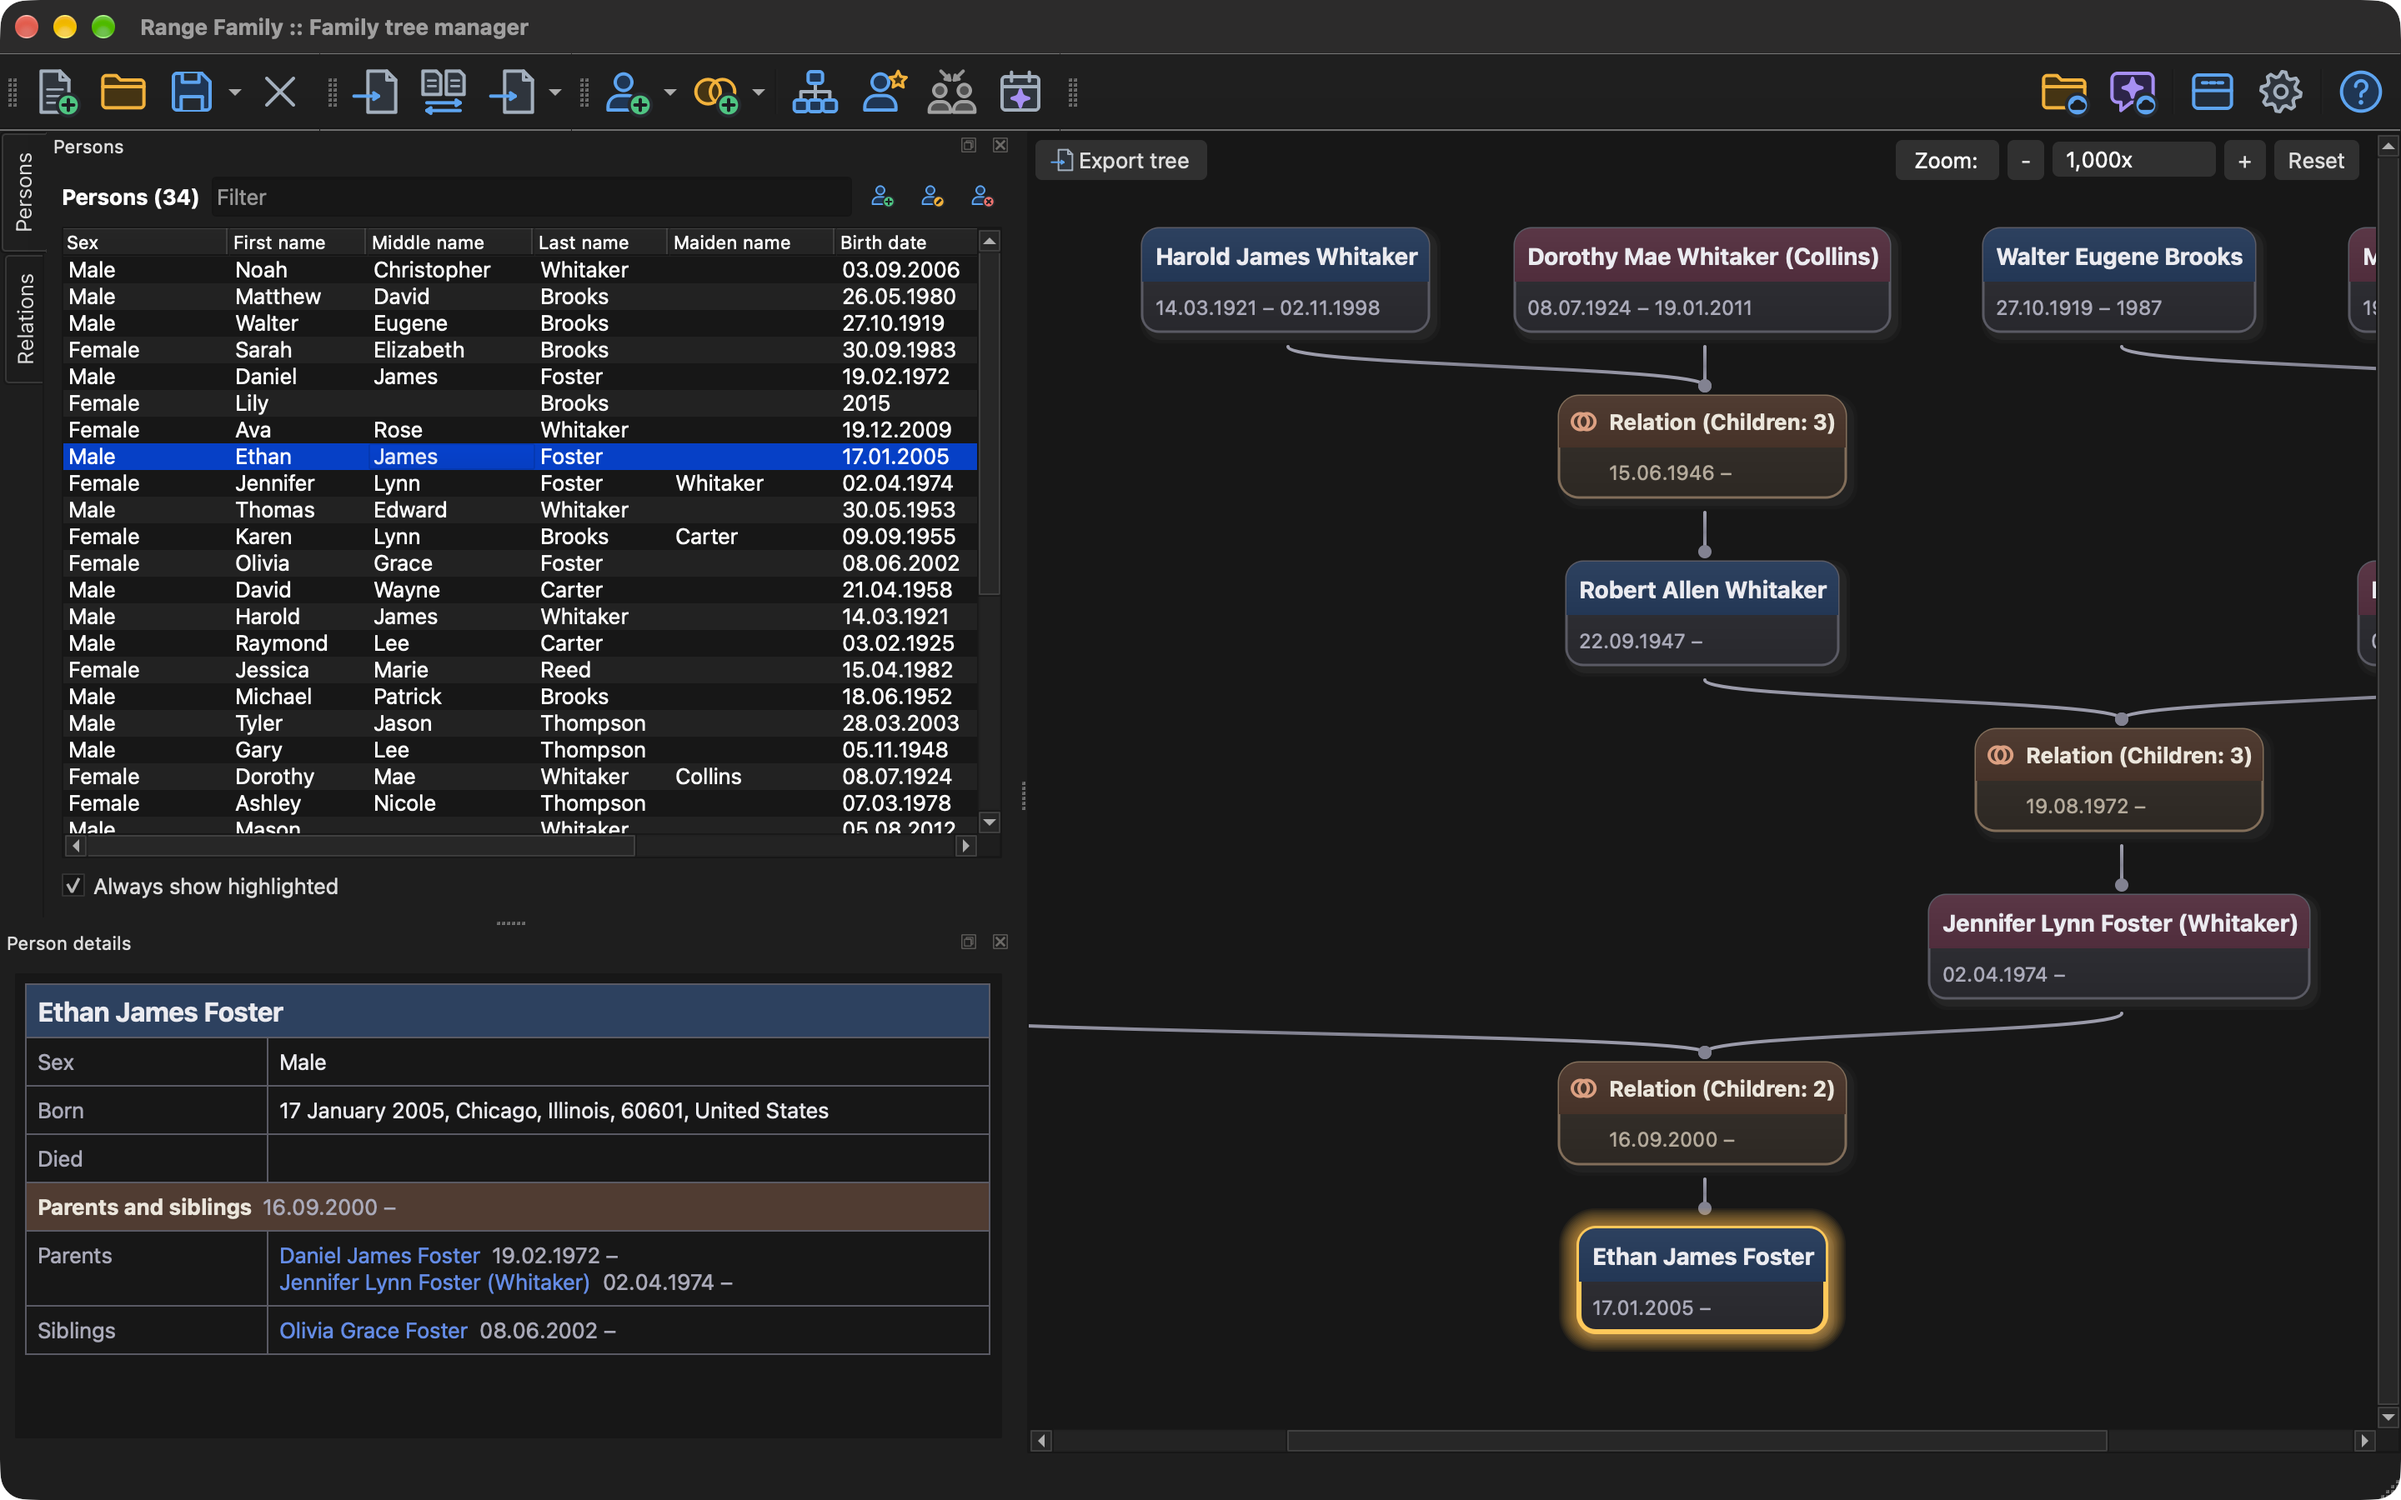
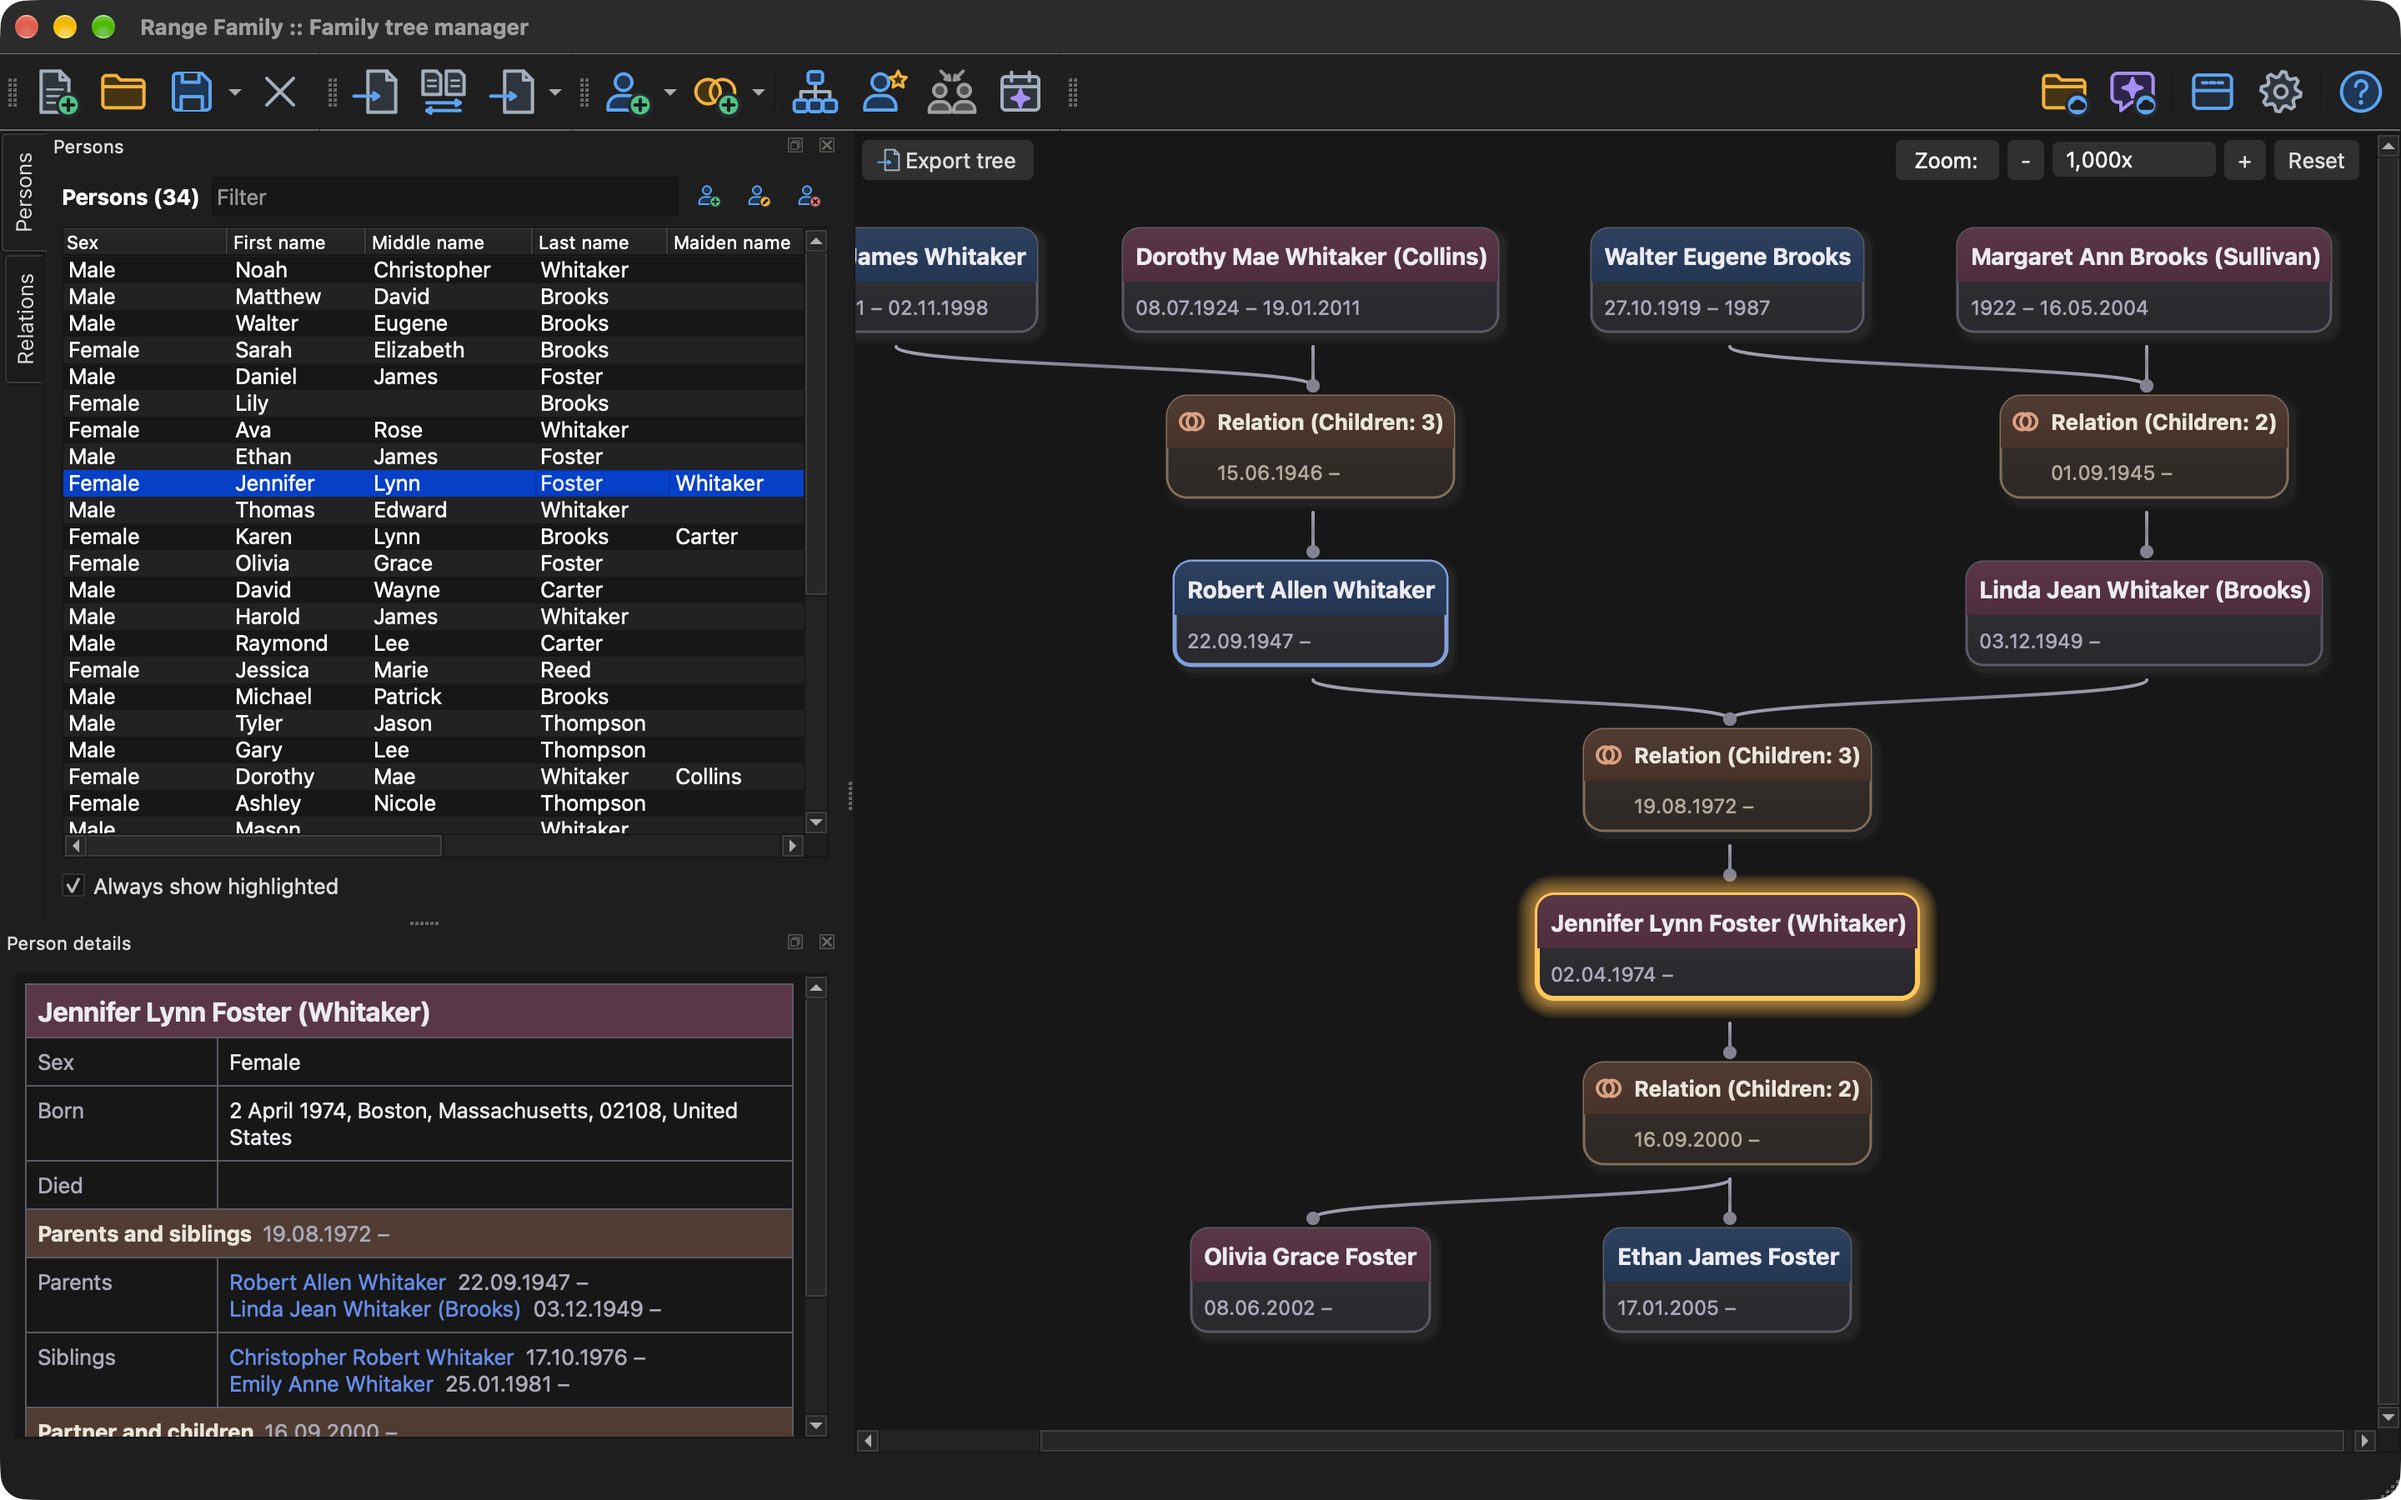
Update macos screenshots

diff --git a/README.md b/README.md
@@ -2,7 +2,7 @@
 
 Range Family is an open-dource desktop application for family tree management.
 
-![Range Family](./doc/RangeFamily-darwin-light.png)
+![Range Family](./doc/RangeFamily-darwin-dark.png)
 
 ## Help and tutorials
 
